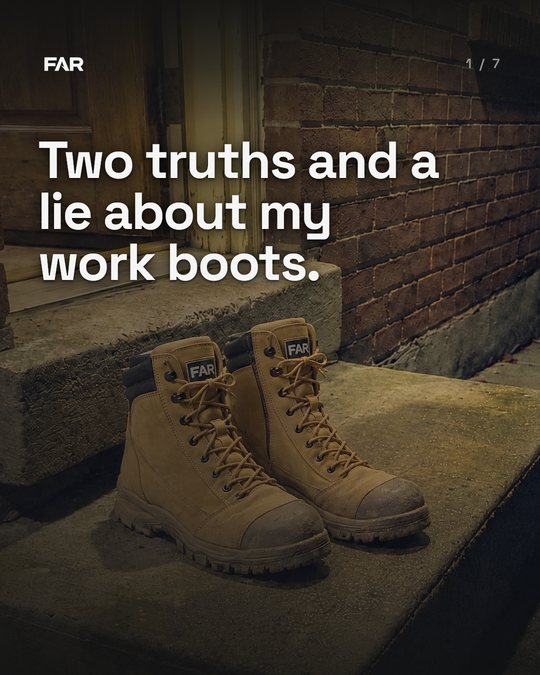
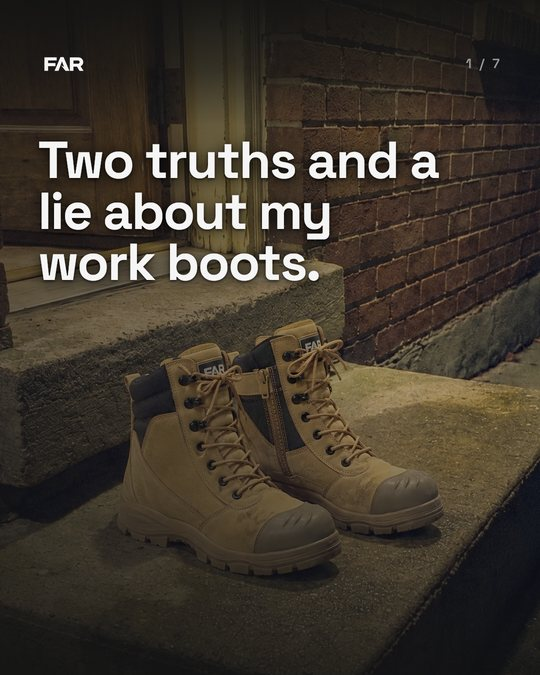
S1340: slide 1 fixed (third go)

diff --git a/far-w42-calls-p4x8.html b/far-w42-calls-p4x8.html
@@ -66,7 +66,7 @@
 <div class="card">
   <h3>Slide 1, before and after</h3>
   <img src="w42_s1340_p4x8/s1_before_after.jpg" alt="Slide 1 boots before and after">
-  <p>Left is what you saw. Right: one zip on each boot, on the inside, laced through every hole to the top and tied.</p>
+  <p>Left is what you first saw. Right is the third go, after you said it was still wrong: made fresh from the original step in one pass, so the brick and concrete stay clean. Open black speed hooks at the top, round eyelets below, the chunky zip with the black panel behind it, the black padded collar down the back, ridged toe caps, laced to the top and tied.</p>
 </div>
 <div class="card">
   <h3>Slide 2, before and after</h3>
@@ -75,7 +75,7 @@
   <p class="dim">One thing no generated pair has got yet: the tan velcro tab over the top of the zip. At this size nobody will see it.</p>
 </div>
 <div class="rec"><b>The one fact only you know.</b> Slide 2 says "Mine have been to a wedding, a funeral and the footy." You ticked "some of them" but the note came through empty. Which ones have the FARs really been to? I'll cut the line to just those.</div>
-<p class="dim">5.5 credits on three tries, 95.48 left.</p>
+<p class="dim">Six tries across both slides, 16.5 credits.</p>
 
 <h2>Tuesday: Things You Only Hear At Work</h2>
 <div class="card">
